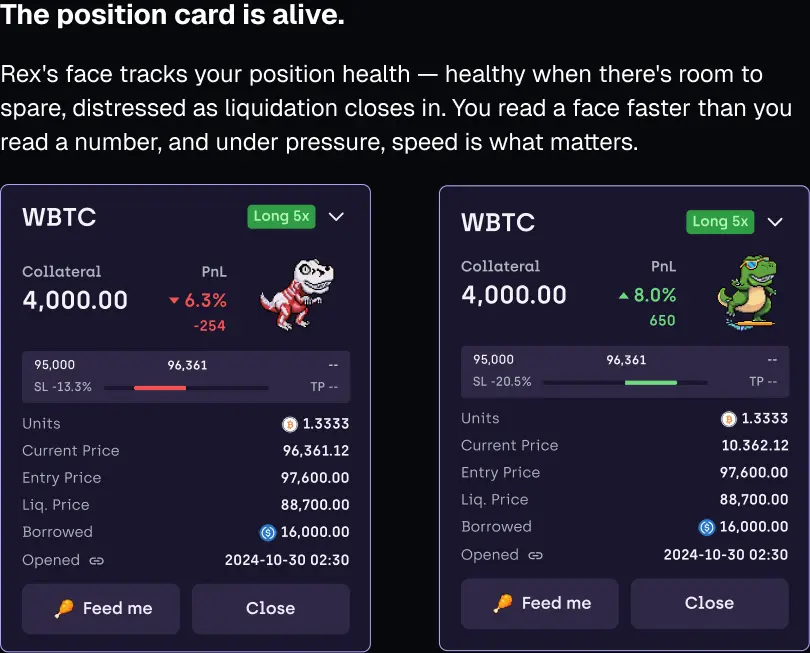
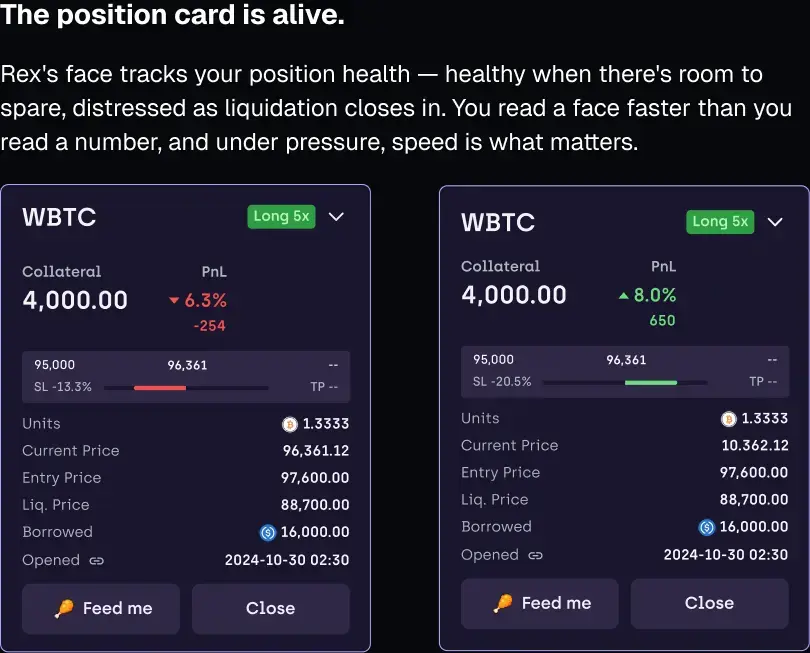
Tea-REX: animate the Rex on the position cards
The half-skeleton (losing) and skateboard (winning) Rex on the two
position cards are now the GIFs, laid over the screenshot on desktop,
tablet and mobile with the stills painted out underneath.

Claude-Session: https://claude.ai/code/session_01XwSJSoqq3h7KCuvntWv7Qm

Changed region(s): [[0.3086, 0.3982, 0.4321, 0.5207], [0.8642, 0.3675, 0.9568, 0.5207]]

diff --git a/css/style.css b/css/style.css
@@ -968,6 +968,19 @@ strong { font-weight: 700; }
 }
 .rex-row img { width: 84px; height: auto; aspect-ratio: 80 / 85; object-fit: contain; image-rendering: pixelated; }
 
+/* Animated sprites laid over the stills baked into a screenshot
+   (x / y / size as % of the image, desktop and mobile). */
+.sprite-overlay { position: relative; }
+.sprite-overlay .sprite-overlay__gif {
+  position: absolute;
+  left: var(--x);
+  top: var(--y);
+  width: var(--s);
+  height: auto;
+  image-rendering: pixelated;
+  pointer-events: none;
+}
+
 @media (max-width: 1199px) {
   :root {
     --page-top: 185px;
@@ -1234,6 +1247,7 @@ strong { font-weight: 700; }
   .awards { width: min(348px, calc(100% - 2 * var(--gutter))); grid-template-columns: 1fr; gap: 30px; }
 
   /* ---------- Tea-REX ---------- */
+  .sprite-overlay .sprite-overlay__gif { left: var(--mx); top: var(--my); width: var(--ms); }
   .rex-row { width: min(287px, calc(100% - 2 * var(--gutter))); column-gap: 7px; }
   .rex-row img { width: 91px; }
   .subhead { width: calc(100% - 2 * var(--gutter)); }

diff --git a/tearex.html b/tearex.html
@@ -76,8 +76,10 @@
       </div>
     </section>
 
-    <div class="block" style="--w:1106px" data-reveal="wipe">
+    <div class="block sprite-overlay" style="--w:1106px" data-reveal="wipe">
       <picture><source media="(max-width: 767px)" srcset="assets/tearex/position-card-mobile.webp" width="405" height="326"><img src="assets/tearex/position-card.webp" alt="My Positions on mobile and the position card: Rex's face tracks position health" width="1106" height="753" loading="lazy"></picture>
+        <img class="sprite-overlay__gif" src="assets/tearex/rex-dead-1.gif" alt="" width="80" height="85" loading="lazy" style="--x:57.665%; --y:24.653%; --s:7.175%; --mx:31.72%; --my:36.64%; --ms:11.47%">
+        <img class="sprite-overlay__gif" src="assets/tearex/rex-green-1.gif" alt="" width="80" height="85" loading="lazy" style="--x:92.393%; --y:25.21%; --s:6.269%; --mx:87.656%; --my:37.499%; --ms:10.008%">
     </div>
 
     <div class="stack" style="gap:27px; width:100%">
